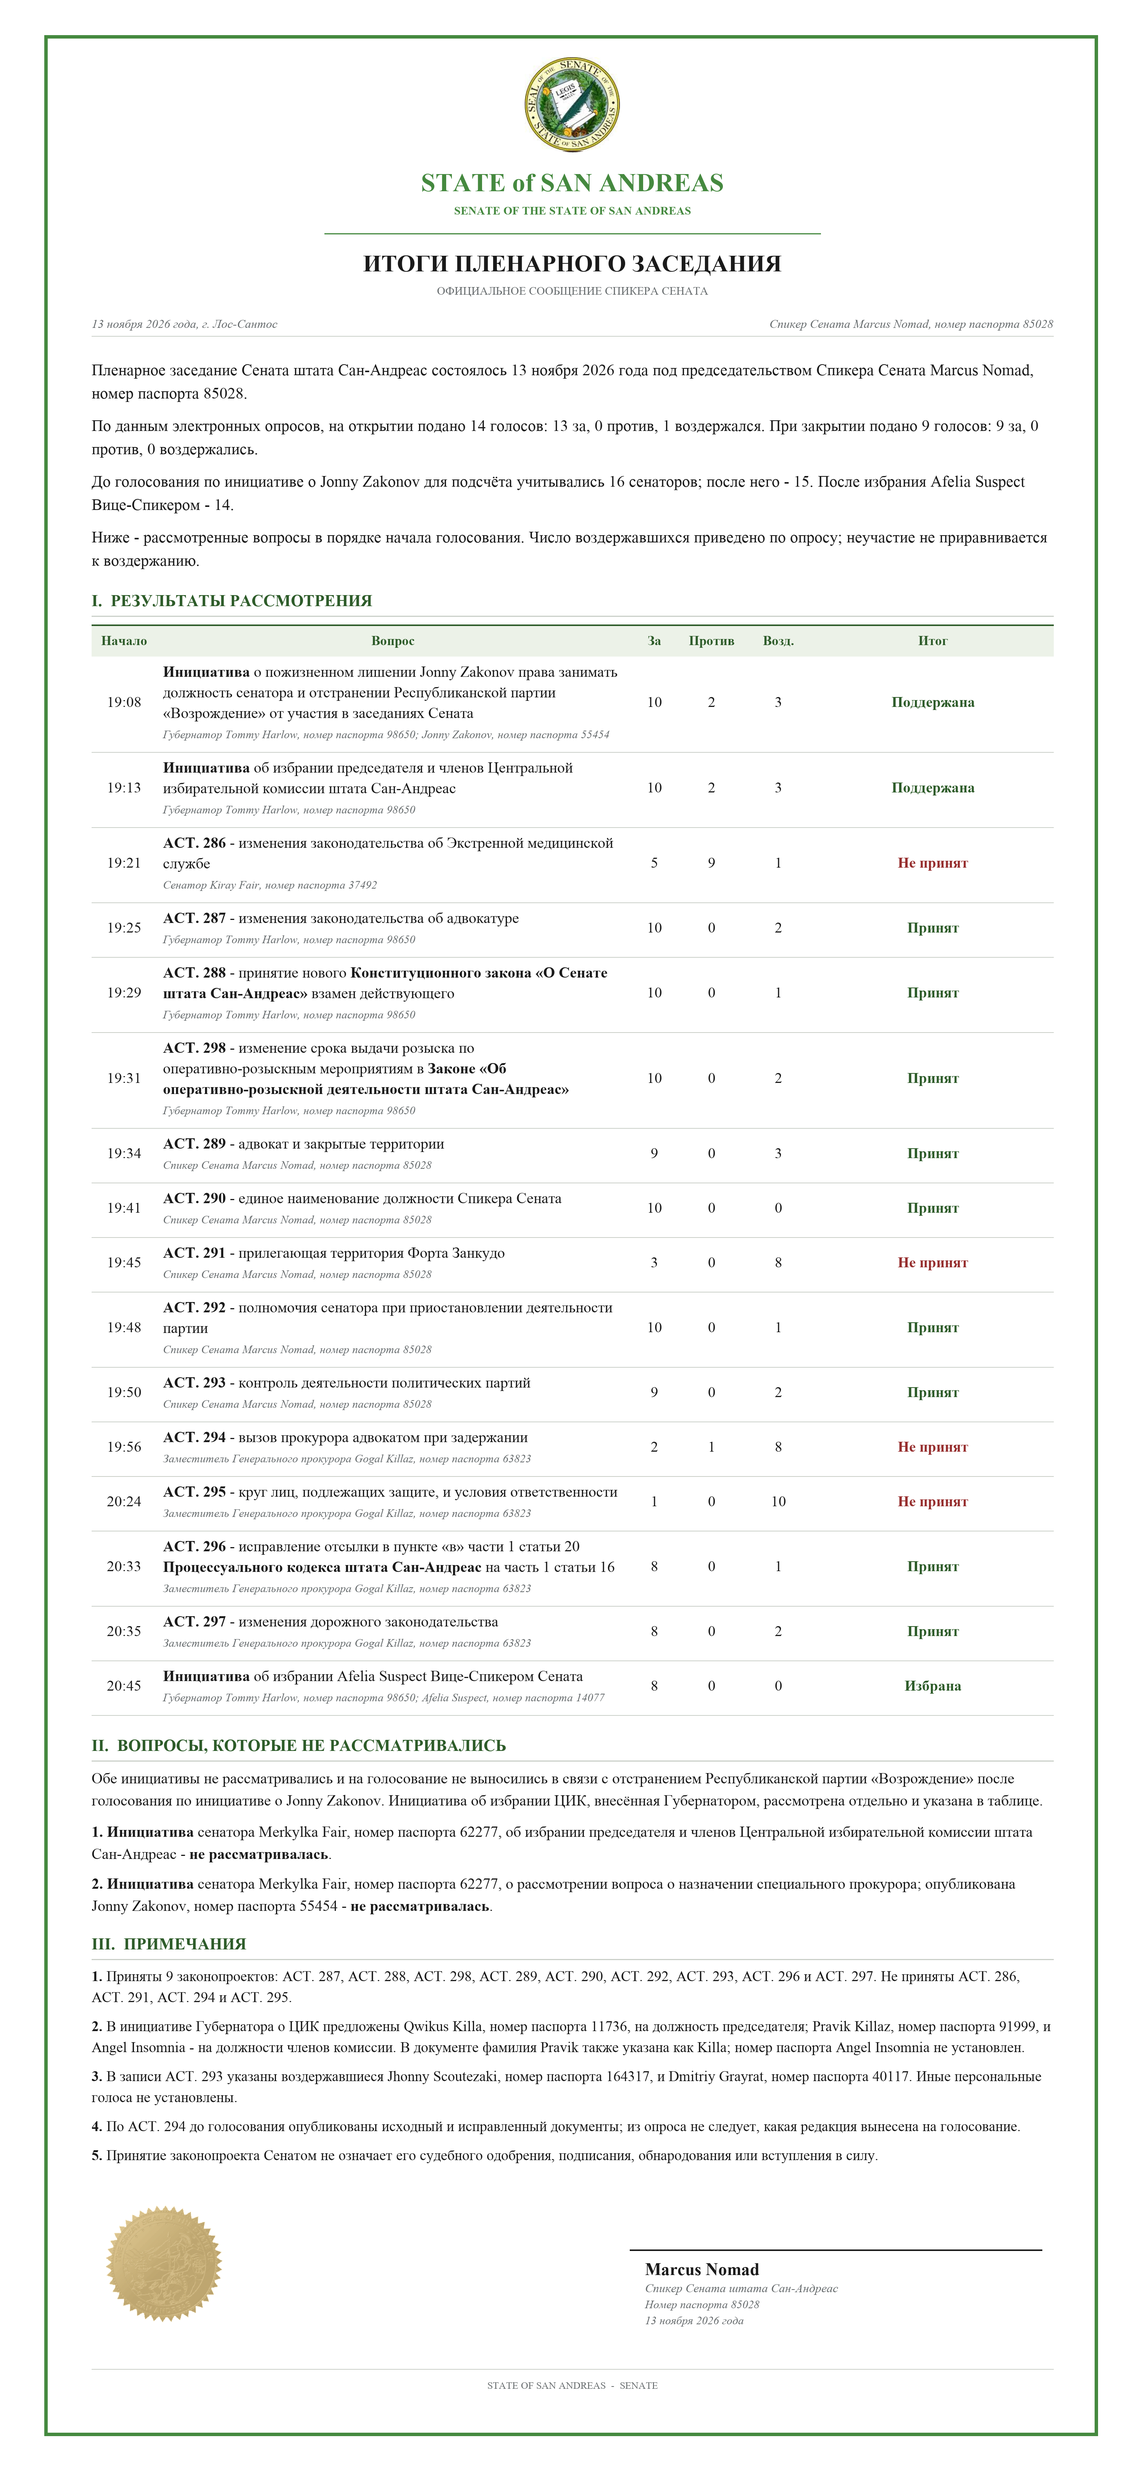
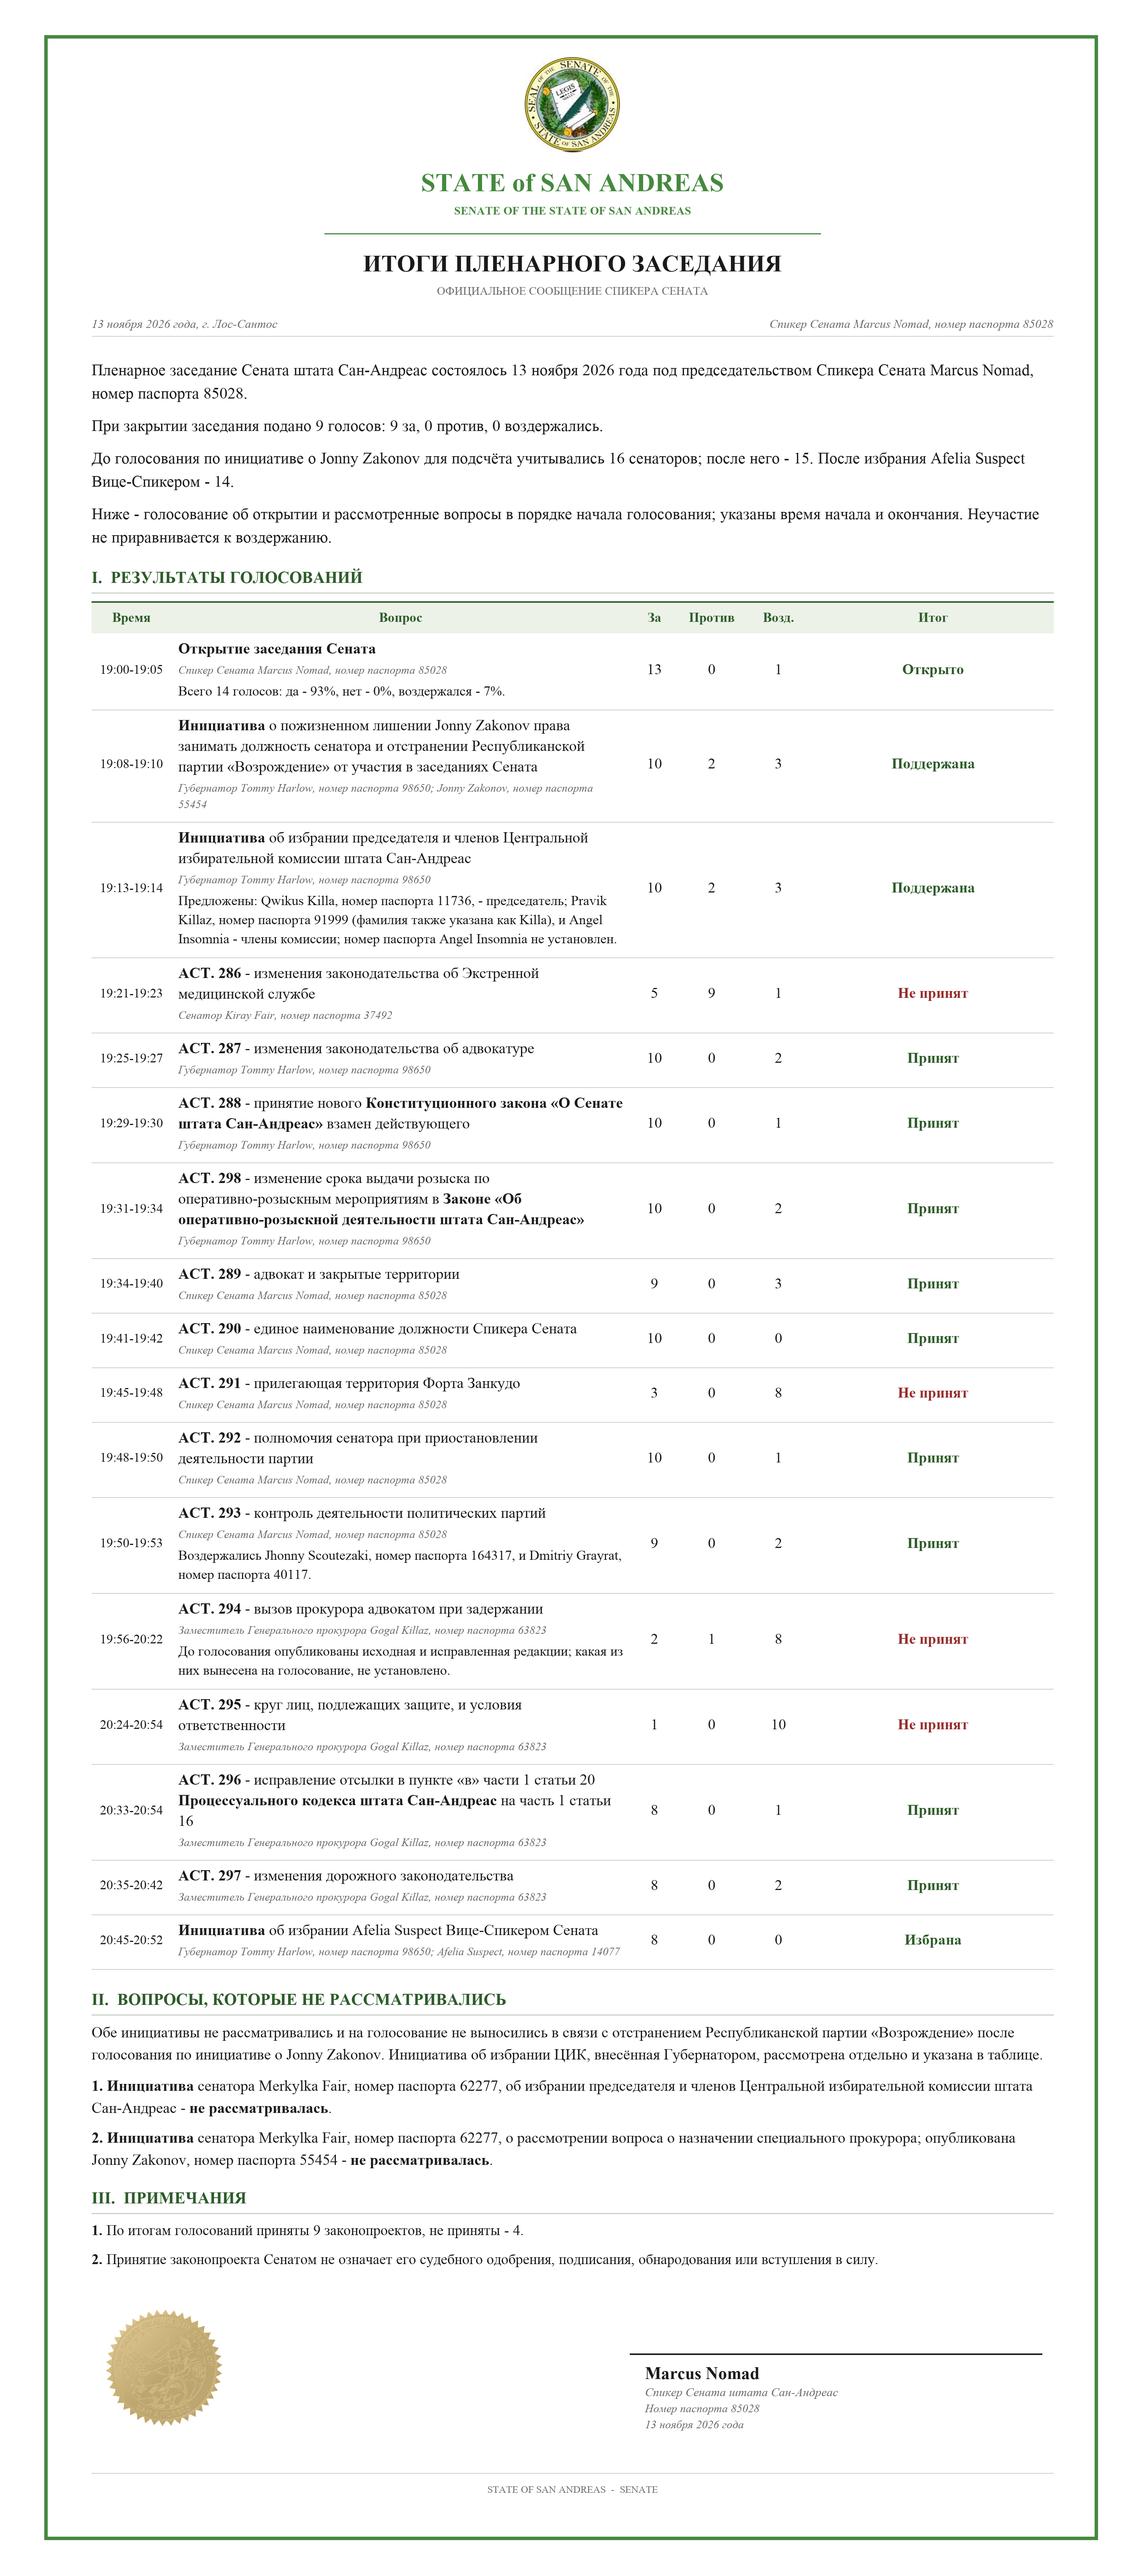
Update Senate opening vote and public notes

diff --git a/tests/test_senat_documents_13_11.py b/tests/test_senat_documents_13_11.py
@@ -25,7 +25,7 @@ def table_rows(bb):
 
 
 def check_balanced_bb(test, text):
-    expression = re.compile(r"\[(/?)(CENTER|IMG|I|B|COLOR|SIZE|TABLE|TR|td|URL|LIST)(?:[ =][^\]]*)?\]", re.I)
+    expression = re.compile(r"\[(/?)(CENTER|RIGHT|IMG|I|B|COLOR|SIZE|TABLE|TR|td|URL|LIST)(?:[ =][^\]]*)?\]", re.I)
     stack = []
     for token in expression.finditer(text):
         close, name = token.group(1), token.group(2).upper()
@@ -33,6 +33,8 @@ def check_balanced_bb(test, text):
             test.assertTrue(stack, f"unexpected closing tag {token.group(0)}")
             test.assertEqual(stack.pop(), name, f"unbalanced tag {token.group(0)}")
         else:
+            if name == "SIZE":
+                test.assertNotIn("SIZE", stack, "nested SIZE tags are not supported consistently")
             stack.append(name)
     test.assertEqual(stack, [])
 
@@ -42,8 +44,29 @@ class SenateDocumentsTests(unittest.TestCase):
         self.assertTrue(senate.validate_polls_against_log())
         self.assertEqual(len(senate.POLLS), 18)
         self.assertEqual(len(senate.SUBSTANTIVE), 16)
+        self.assertEqual(len(senate.RESULT_POLLS), 17)
+        self.assertEqual(senate.RESULT_POLLS, (senate.BY_KEY["open"],) + senate.SUBSTANTIVE)
         self.assertEqual(sum(p.key.isdigit() for p in senate.POLLS), 13)
         self.assertEqual(len({p.key for p in senate.POLLS}), 18)
+
+    def test_opening_votes_time_and_percentages_in_both_documents(self):
+        opening = senate.BY_KEY["open"]
+        self.assertEqual((opening.start, opening.end), ("19:00", "19:05"))
+        self.assertEqual((opening.yes, opening.no, opening.abstain, opening.total), (13, 0, 1, 14))
+        self.assertEqual(opening.detail, "Всего 14 голосов: да - 93%, нет - 0%, воздержался - 7%.")
+        source = senate.SOURCE.read_text(encoding="utf-8")
+        source = source.split("\nОткрытие Сената 13.11.26\n", 1)[1].split("\nОпрос завершён\n", 1)[0]
+        self.assertRegex(source, r"(?s)Да\s+13 голосов\s+93%\s+Нет\s+0 голосов\s+0%"
+                                 r"\s+Воздержался.*?1 голос\s+7%\s+14 голосов")
+        for protocol in (False, True):
+            rows = table_rows(senate.build_bb(protocol))
+            self.assertEqual(untag(rows[1][0]), "19:00-19:05")
+            self.assertIn(opening.title, rows[1][1])
+            self.assertIn(senate.bb_text(opening.detail), rows[1][1])
+            count_index = 3 if protocol else 2
+            self.assertEqual([untag(c) for c in rows[1][count_index:count_index + 3]], ["13", "0", "1"])
+            self.assertEqual(sum(opening.title in row[1] for row in rows[1:]), 1)
+            self.assertNotIn("Вы проголосовали за этот ответ", senate.build_bb(protocol))
 
     def test_validator_rejects_modified_poll_or_finish_time(self):
         original = senate.SOURCE.read_text(encoding="utf-8")
@@ -109,9 +132,9 @@ class SenateDocumentsTests(unittest.TestCase):
             self.assertIn("Jhonny Scoutezaki, номер паспорта 164317", text)
             self.assertIn("Dmitriy Grayrat, номер паспорта 40117", text)
             self.assertIn("вопроса о назначении специального прокурора", text.lower())
-            self.assertIn(senate.CEC_CANDIDATES_NOTE, text)
             self.assertIn("Qwikus Killa, номер паспорта 11736", text)
             self.assertIn("Pravik Killaz, номер паспорта 91999", text)
+            self.assertIn("фамилия также указана как Killa", text)
             self.assertIn("номер паспорта Angel Insomnia не установлен", text)
             self.assertIn(senate.UNCONSIDERED_REASON, text)
             self.assertEqual(text.count("[B]не рассматривалась[/B]"), 2)
@@ -129,24 +152,46 @@ class SenateDocumentsTests(unittest.TestCase):
                 bb = senate.build_bb(protocol)
                 check_balanced_bb(self, bb)
                 rows = table_rows(bb)
-                polls = senate.POLLS if protocol else senate.SUBSTANTIVE
+                polls = senate.POLLS if protocol else senate.RESULT_POLLS
                 self.assertEqual(len(rows), len(polls) + 1)
                 for cells, poll in zip(rows[1:], polls):
                     self.assertEqual(len(cells), 8 if protocol else 6, poll.key)
                     expected = ([poll.interval, poll.active, poll.yes, poll.no, poll.abstain,
                                  poll.threshold, poll.outcome] if protocol else
-                                [poll.start, poll.yes, poll.no, poll.abstain, poll.outcome])
+                                [poll.interval, poll.yes, poll.no, poll.abstain, poll.outcome])
                     actual = [untag(cells[0])] + [untag(cell) for cell in cells[2:]]
                     self.assertEqual(actual, [str(x) for x in expected], poll.key)
                     self.assertIn(poll.title, cells[1])
                     self.assertIn(poll.meta, cells[1])
+                    if poll.detail:
+                        self.assertIn(senate.bb_text(poll.detail), cells[1])
                     if poll.url:
                         self.assertIn(poll.url, cells[1])
-                self.assertIn(senate.REVISED_294_URL, bb)
+                    if poll.key == "294":
+                        self.assertIn(f"[URL='{poll.url}']Исходная редакция[/URL]", cells[1])
+                        self.assertIn(f"[URL='{senate.REVISED_294_URL}']исправленная редакция[/URL]", cells[1])
                 self.assertIn(senate.UNVOTED_CEC_URL, bb)
                 self.assertIn(senate.SPECIAL_PROSECUTOR_URL, bb)
-                if protocol:
-                    self.assertIn("в ту же минуту", bb)
+
+    def test_notes_are_concise_and_keep_publication_caveat(self):
+        bills = [p for p in senate.POLLS if p.key.isdigit()]
+        self.assertEqual(sum(p.outcome == "Принят" for p in bills), 9)
+        self.assertEqual(sum(p.outcome == "Не принят" for p in bills), 4)
+        self.assertEqual(len(senate.RESULT_NOTES), 2)
+        self.assertEqual(len(senate.PROTOCOL_NOTES), 1)
+        for protocol in (False, True):
+            with self.subTest(protocol=protocol):
+                bb = senate.build_bb(protocol)
+                notes = bb.split(senate.bb_heading("Примечания"), 1)[1].split("[RIGHT]", 1)[0]
+                self.assertEqual(notes.count("[*]"), 1 if protocol else 2)
+                self.assertIn(senate.ENACTMENT_NOTE, notes)
+                self.assertNotIn("ACT. 294", notes)
+                self.assertNotIn("Qwikus", notes)
+                self.assertNotIn("Scoutezaki", notes)
+                self.assertNotIn("http", notes)
+                if not protocol:
+                    self.assertIn("приняты 9 законопроектов, не приняты - 4", notes)
+                self.assertLess(len(untag(notes)), 250)
 
     def test_bb_font_sizes_and_more_saturated_red(self):
         self.assertEqual((senate.BB_BODY_SIZE, senate.BB_META_SIZE, senate.BB_HEADING_SIZE), (5, 3, 6))
@@ -154,7 +199,7 @@ class SenateDocumentsTests(unittest.TestCase):
         for protocol in (False, True):
             with self.subTest(protocol=protocol):
                 bb = senate.build_bb(protocol)
-                polls = senate.POLLS if protocol else senate.SUBSTANTIVE
+                polls = senate.POLLS if protocol else senate.RESULT_POLLS
                 rows = table_rows(bb)
                 self.assertEqual(bb.count("[SIZE=3]"), len(polls))
                 self.assertEqual(bb.count("[SIZE=6]"), 7)
@@ -217,9 +262,12 @@ class SenateDocumentsTests(unittest.TestCase):
             self.assertIn("Jonny", visible)
             self.assertIn("Afelia", visible)
             self.assertIn("296", visible)
-            if protocol:
-                for p in senate.POLLS:
-                    self.assertIn(p.interval, visible)
+            for key in ("open", "cec_governor", "293", "294"):
+                self.assertIn(senate.BY_KEY[key].detail, visible)
+            self.assertEqual(painter.texts.count("19:00-19:05"), 1)
+            self.assertNotIn("Вы проголосовали за этот ответ", visible)
+            for p in senate.POLLS if protocol else senate.RESULT_POLLS:
+                self.assertIn(p.interval, visible)
 
 
 if __name__ == "__main__":
